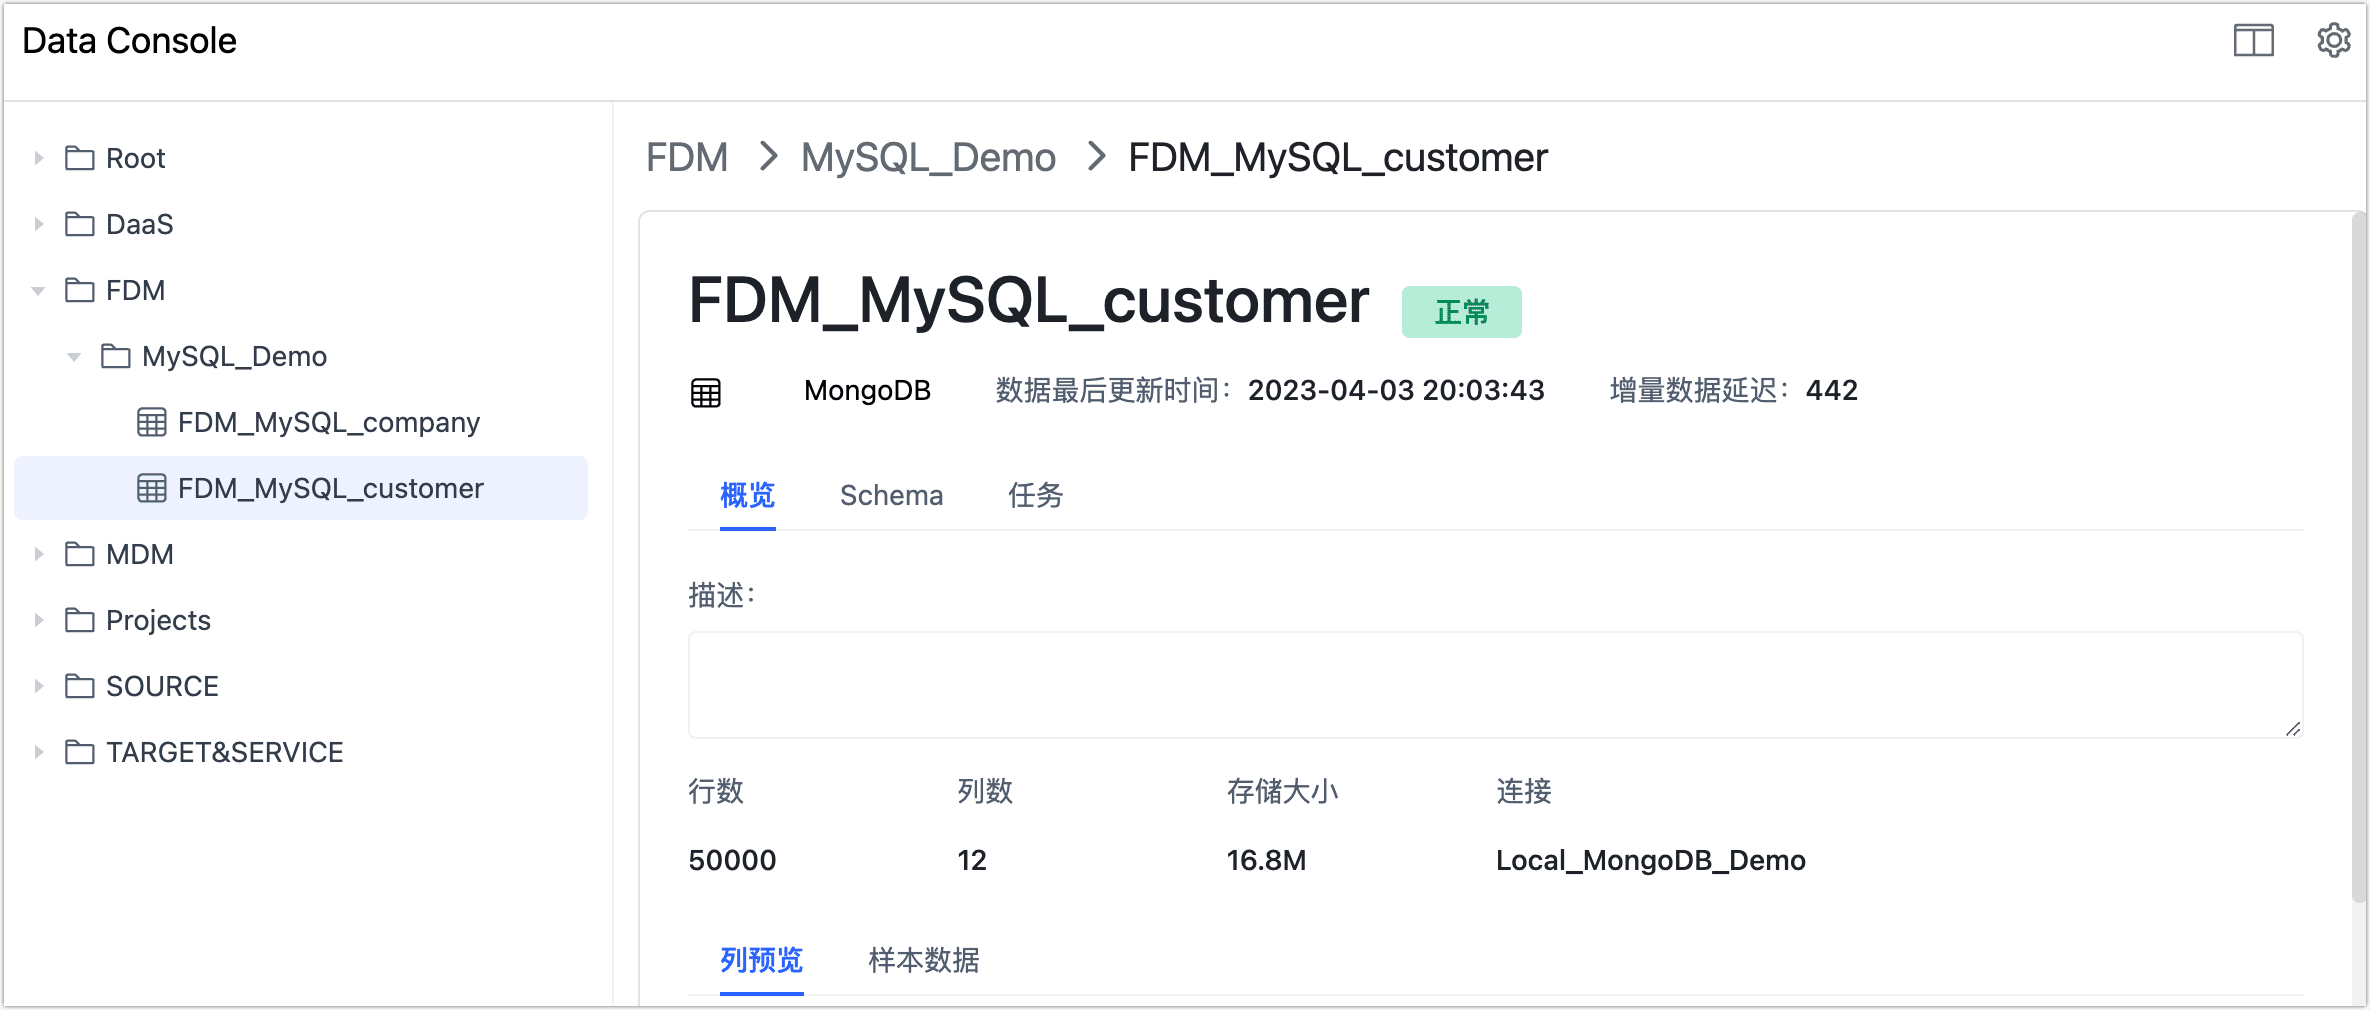
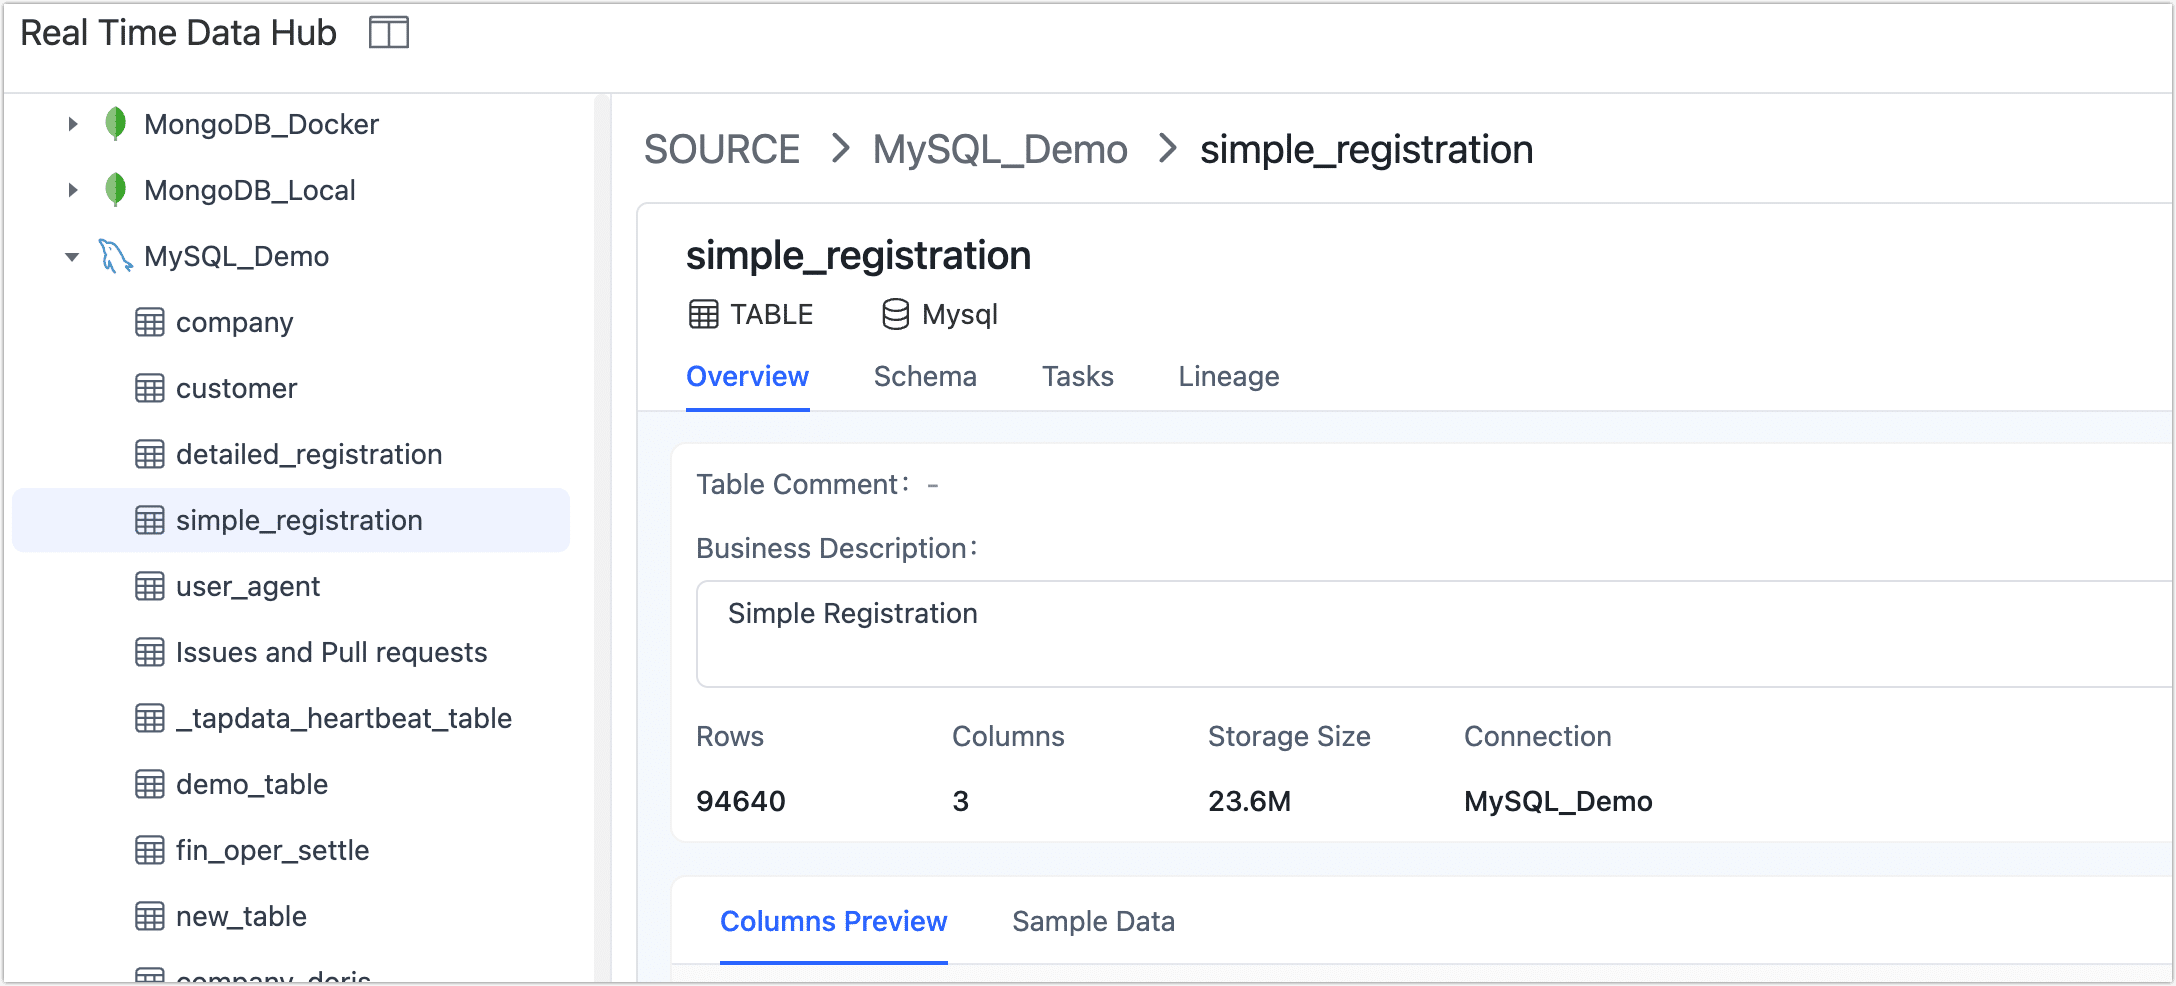
Part 2

diff --git a/docs/cloud/user-guide/real-time-data-hub/enable-real-time-data-hub.md b/docs/cloud/user-guide/real-time-data-hub/enable-real-time-data-hub.md
@@ -6,7 +6,7 @@ Tapdata Cloud's Real-Time Data Hub offers a powerful solution. By synchronizing 
 
 
 
-## Real-Time Data Hub Introduction
+## <span id="intro">Real-Time Data Hub Introduction</span>
 
 With the increase in the tasks carried by the source database, in order to minimize the impact of data extraction on the source database and adhere to the organization's concept of data hierarchical governance, Tapdata Cloud organizes the data service platform in a layered manner based on the data flow order. This hierarchical arrangement ensures efficient and structured data processing, allowing for better data management and seamless integration across different systems.
 
@@ -21,20 +21,6 @@ With the increase in the tasks carried by the source database, in order to minim
 
 
 
-## Preparations
-
-
-
-1. Prepare a MongoDB database (4.0 and above), and see the [MongoDB official website](https://www.mongodb.com/docs/manual/administration/install-on-linux/) for information on deployment.
-
-   :::tip
-
-   In order to ensure high service availability, MongoDB is recommended to use replica/cluster architecture, and to reserve enough storage space based on the data size of the Source Data Layer.
-
-   :::
-
-2. [Connect to MongoDB Database](../../prerequisites/README.md)
-
 ## Procedure
 
 In the Real-Time Data Hub, we need to prepare a MongoDB database as a data repository for the Data Cache Layer and Data Processing Layer.
@@ -46,28 +32,35 @@ In the Real-Time Data Hub, we need to prepare a MongoDB database as a data repos
 3. Review the introduction of the Real-Time Data Hub and scroll down to the bottom of the page, Click on **Configure Storage**.
 
 4. Choose the provider for MongoDB Atlas services, deployment region, specification, and subscription period as follows:
-
    ![Purchase MongoDB Atlas and Storage](../../images/purchase_storage.png)
 
    * **Cloud Provider**: Currently supported: Google Cloud.
-
    * **Region**: Select the deployment region. Choose a region close to your data source for minimal network latency.
-
-   * **Specification**: Pick the specification and storage space for MongoDB Atlas.
-
+   * **Specification**: Pick the **specification** and **storage size** for MongoDB Atlas.
      :::tip
-
      Tapdata Cloud offers a free trial option with specifications that you can select. You can choose the **Free Trial** option to get started.
-
      :::
-
+     <details><summary>Specifications Description</summary>
+     <ul>
+     <li>M10: 2 vCPUs, 2 GB RAM</li>
+     <li>M20: 2 vCPUs, 4 GB RAM</li>
+     <li>M30: 2 vCPUs, 8 GB RAM</li>
+     <li>M40: 4 vCPUs, 16 GB RAM</li>
+     <li>M50: 8 vCPUs, 32 GB RAM</li>
+     <li>M60: 16 vCPUs, 64 GB RAM</li>
+     </ul>
+     </details>
    * **Subscription Period**: Select the desired subscription period.
+   <details><summary>Want to use an existing MongoDB Atlas?</summary>
+     At the top of the page, click on <b>click here to privede the connection information</b>, and fill in the MongoDB Atlas connection URL.
+   </details>
 
 5. Click **Subscription**, on the following page, carefully review and confirm the specifications you wish to purchase. Ensure that the selected billing method aligns with your preferences. Additionally, verify that the email address provided is accurate and where you would like to receive the bill. 
 
 6. Once you have double-checked all the information, click on the **Pay Now** button to proceed with the purchase.
 
-7. You will redirected to payment page. Please follow the instructions on the payment page to complete the payment process. After completing the payment, you will be redirected to **Real Time Data Hub** page, and the page categorize according to the [hierarchy](daas-mode-dashboard.md) we previously defined.
+7. You will redirected to payment page. Please follow the instructions on the payment page to complete the payment process. 
 
+   After the payment is completed, the page will return to the **Real-Time Data Hub** page. Once the instance is automatically deployed, the page will be organized and displayed according to the [hierarchy we introduced before](#intro). For information on how to use it, see [Real-Time Data Hub Dashboard Introduction](daas-mode-dashboard.md).
 
-
+   

diff --git a/docs/cloud/user-guide/real-time-data-hub/daas-mode-dashboard.md b/docs/cloud/user-guide/real-time-data-hub/daas-mode-dashboard.md
@@ -1,4 +1,4 @@
-# Data Service Platform Dashboard
+# Real-Time Data Hub Dashboard
 
 Once the data service platform mode is activated, the page will be organized according to the previously mentioned [hierarchy](enable-real-time-data-hub.md). You can effortlessly drag the table to the next level, which will automatically create data replication tasks and streamline the data flow.
 
@@ -8,11 +8,11 @@ This article provides a comprehensive guide on utilizing the Data Service Platfo
 
 1. Log in to [Tapdata Cloud](https://cloud.tapdata.io/).
 
-2. In the left navigation panel, click **Data Console**.
+2. In the left navigation panel, click **Real-Time Data Hub**.
 
 3. On this page, you can conveniently view the information you have entered for your data source. In the following sections, we will explain the functions of each button available.
 
-   ![Data Integration Mode Interface](../../images/daas_dashboard.png)
+   ![Data Integration Mode Interface](../../images/real_time_data_hub_dashboard.png)
 
 import Tabs from '@theme/Tabs';
 import TabItem from '@theme/TabItem';
@@ -20,8 +20,16 @@ import TabItem from '@theme/TabItem';
 <Tabs className="unique-tabs">
     <TabItem value="5" label="① Switch View Model" default>
 
-   <p>Clicking the <img src='/img/switch_icon.png'></img> icon allows you to view the data source information in the form of a directory structure. You can navigate through the directory structure to select a specific table. By selecting a table, you can access the tasks associated with that table and view basic information such as table size, number of rows, column details, sample data, and schema information (such as primary key and foreign key constraints). This view provides a comprehensive overview of the selected table's properties and associated tasks. To switch back to the Console view, simply click the icon again. </p>
-   <img src='/img/data_category_view_en.png'></img>
+   <p>Clicking the <img src='/img/switch_icon.png'></img> icon allows you to view the data source information in the form of a directory structure. You can navigate through the directory structure to select a specific table. </p>
+   <p></p>
+   <p>In the catelog view, if you select a specific table, you can also see table details on the right-hand side of the page. The introduction to each tab is as follows: </p>
+
+   <img src='/img/data_category_view.png'></img>
+   <ul>
+   <li><b>Overview</b>: Provides essential information about tables, including table size, row count, column types,  column descriptions (sourced from comments by default), sample data, and more..</li>
+   <li><b>Schema</b>: Offers in-depth insights into table columns, encompassing details like column types, primary keys, foreign keys, default values, and more.</li>
+   <li><b>Tasks</b>: Displays associated tasks for the table, along with their respective statuses. This tab also enables the creation of new tasks.</li>
+   <li><b>Lineage</b>: Presents data lineage relationships visually through a graph format, aiding in effective data quality management. Clicking on a task node allows direct navigation to the monitoring page of the relevant task.</li></ul>
    <p></p>
    </TabItem>
    <TabItem value="1" label="② Add Data Sources">
@@ -42,8 +50,4 @@ import TabItem from '@theme/TabItem';
    <p>On the right side of the table name, click the <img src='/img/detail_icon.png'></img> icon. On the right side of the page, the basic information of the tasks and tables associated with the table will be displayed, including table size, number of rows, column information, sample data, Scheme (such as primary key/foreign key), etc. This operation can also be used in modules of other layers. </p>
    <img src='/img/cache_table_detail_en.png'></img>
    </TabItem>
-   <TabItem value="6" label="⑥ Switch Model">
-
-   <p>Click on the <img src='/img/setting_icon.png'></img> icon, to open a pop-up dialog where you can opt to switch back to <a href="../etl-mode/">Data Integration Mode</a>. </p>
-</TabItem>
 </Tabs>
